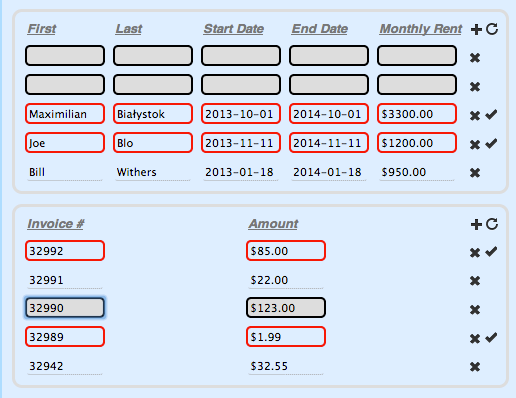
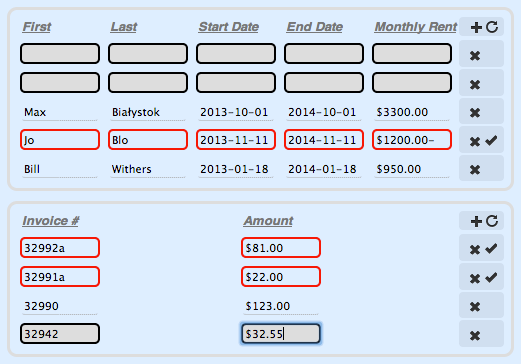
even better shot

diff --git a/css/app.less b/css/app.less
@@ -93,8 +93,10 @@ table {
         }
     }
     td.button, th.button {
+        .rounded-corners(4px);
         width:30px;
-        padding:0 0 0 5px;
+        padding:0 5px 0 10px;
+        background:#cfdfef;
         .delButton { background: transparent url('image/glyph.png') -314px 2px no-repeat; }
         .addButton { background: transparent url('image/glyph.png') -409px -96px no-repeat; }
         .savButton { background: transparent url('image/glyph.png') -290px 0px no-repeat; }
